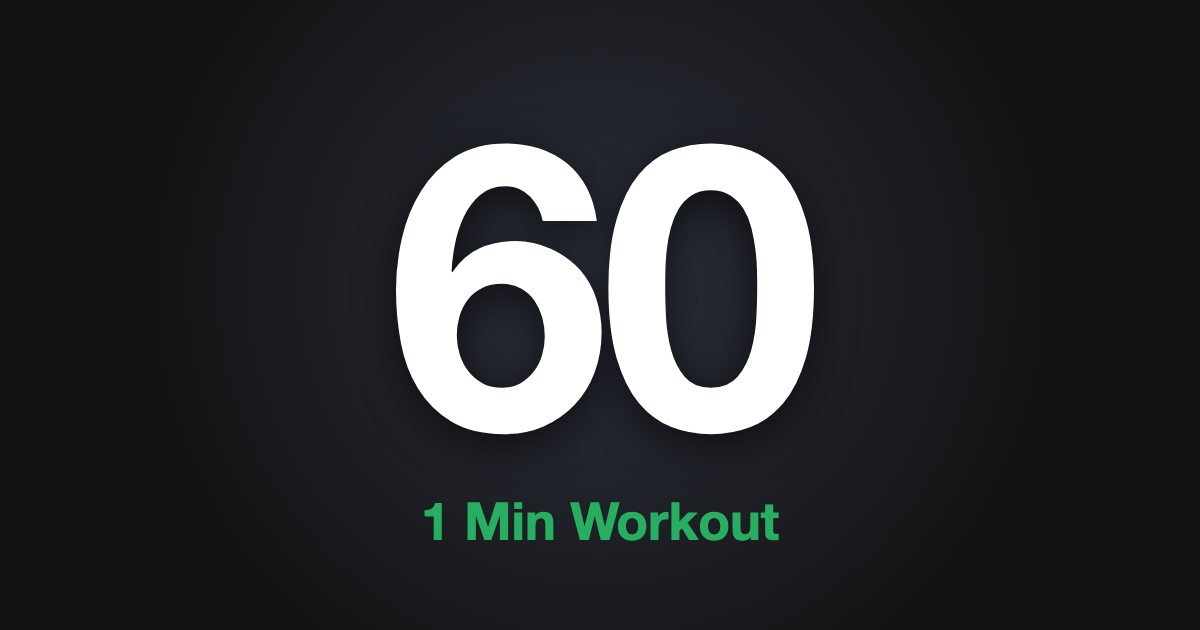
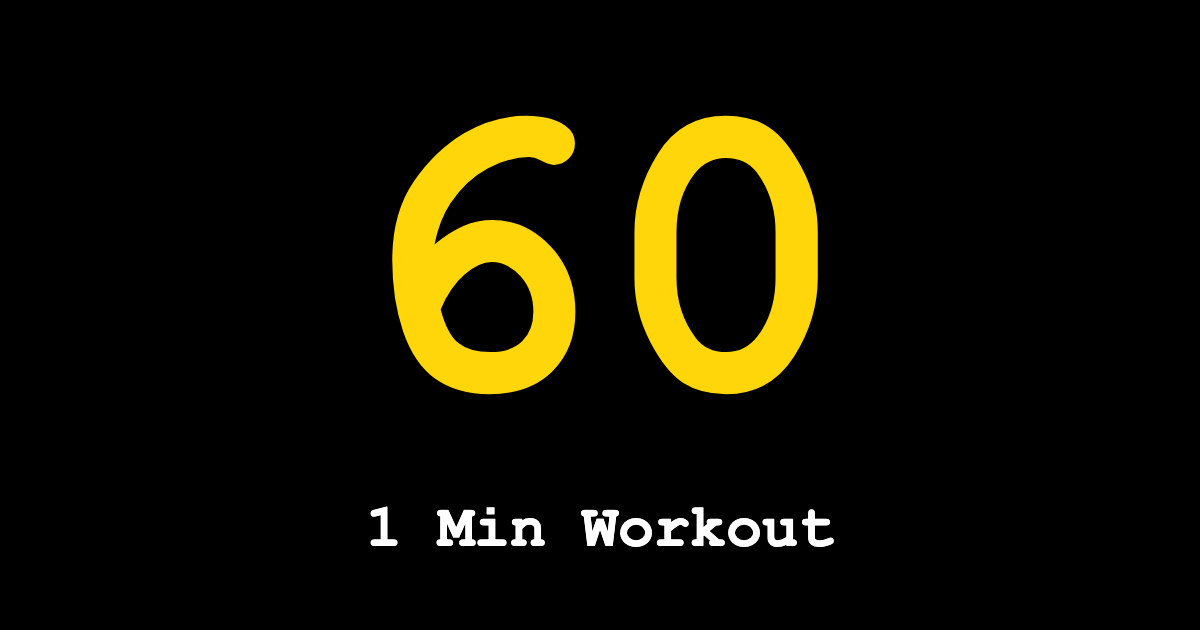
Courier New + black/white/yellow theme, reset vote during countdown

diff --git a/index.html b/index.html
@@ -18,44 +18,48 @@
 <meta name="twitter:image" content="https://chap.github.io/1-min-workout/og.png">
 <link rel="icon" type="image/png" href="apple-touch-icon.png">
 <link rel="apple-touch-icon" href="apple-touch-icon.png">
-<meta name="theme-color" content="#111111">
+<meta name="theme-color" content="#000000">
 <style>
   * { box-sizing: border-box; }
   [hidden] { display: none !important; }
-  html, body { margin: 0; height: 100%; background: #111; color: #eee;
-    font-family: -apple-system, BlinkMacSystemFont, "Segoe UI", Roboto, sans-serif; }
+  :root { --black: #000; --white: #fff; --yellow: #ffd60a; }
+  html, body { margin: 0; height: 100%; background: var(--black); color: var(--white);
+    font-family: "Courier New", Courier, monospace; }
   button { font: inherit; cursor: pointer; border: 0; border-radius: 10px;
     padding: 14px 24px; font-size: 18px; font-weight: 600; }
-  .primary { background: #2f80ed; color: #fff; }
-  .primary:hover { background: #1c6dd8; }
+  .primary { background: var(--yellow); color: var(--black); }
+  .primary:hover { background: var(--white); }
 
   #home { height: 100%; display: flex; flex-direction: column; align-items: center;
     justify-content: center; gap: 16px; padding: 16px; text-align: center; }
   #home h1 { margin: 0; font-size: 36px; }
-  #home p { margin: 0; color: #aaa; }
+  #home h1 { color: var(--yellow); }
+  #home p { margin: 0; color: var(--white); }
 
   #room { height: 100%; display: flex; flex-direction: column; }
 
   #grid { flex: 1; display: grid; gap: 6px; padding: 6px; min-height: 0; }
-  .tile { position: relative; background: #000; border-radius: 10px; overflow: hidden; min-height: 0; }
+  .tile { position: relative; background: #111; border-radius: 10px; overflow: hidden; min-height: 0; }
   .tile video { width: 100%; height: 100%; object-fit: cover; display: block; }
   .tile.self video { transform: scaleX(-1); }
   .tile .ready-btn { position: absolute; left: 50%; bottom: 14px; transform: translateX(-50%);
-    background: #444; color: #fff; }
-  .tile .ready-btn.on, .tile .ready-badge.on { background: #27ae60; }
+    background: var(--black); color: var(--white); border: 2px solid var(--white); white-space: nowrap; }
   .tile .ready-badge { position: absolute; left: 50%; bottom: 14px; transform: translateX(-50%);
-    background: #444; padding: 10px 18px; border-radius: 10px; font-weight: 600; }
+    background: var(--black); color: var(--white); border: 2px solid var(--white);
+    padding: 10px 18px; border-radius: 10px; font-weight: 700; white-space: nowrap; }
+  .tile .ready-btn.small, .tile .ready-badge.small { padding: 6px 12px; font-size: 14px; border-width: 1px; }
+  .tile .ready-btn.on, .tile .ready-badge.on { background: var(--yellow); color: var(--black); border-color: var(--yellow); }
 
   #copy { position: fixed; top: calc(env(safe-area-inset-top, 0px) + 14px); left: 50%; transform: translateX(-50%);
     z-index: 10; display: flex; align-items: center; gap: 10px; padding: 12px 22px; font-size: 18px;
-    background: rgba(0,0,0,.6); color: #fff; border-radius: 999px; backdrop-filter: blur(8px);
+    background: var(--black); color: var(--yellow); border: 2px solid var(--yellow); border-radius: 999px;
     box-shadow: 0 4px 16px rgba(0,0,0,.4); white-space: nowrap; transition: background .2s; }
-  #copy:hover { background: rgba(0,0,0,.8); }
-  #copy.copied { background: #27ae60; }
+  #copy:hover { background: var(--yellow); color: var(--black); }
+  #copy.copied { background: var(--yellow); color: var(--black); }
   #copy svg { width: 22px; height: 22px; flex: none; }
 
   #copied-banner { position: fixed; left: 50%; top: 50%; transform: translate(-50%, -50%); z-index: 20;
-    background: #27ae60; color: #fff; padding: 22px 30px; border-radius: 16px; text-align: center;
+    background: var(--yellow); color: var(--black); padding: 22px 30px; border-radius: 16px; text-align: center;
     box-shadow: 0 10px 40px rgba(0,0,0,.5); max-width: calc(100vw - 32px);
     animation: pop .25s ease-out; transition: opacity .4s; }
   #copied-banner strong { display: block; font-size: 26px; margin-bottom: 6px; }
@@ -64,8 +68,8 @@
   @keyframes pop { from { transform: translate(-50%, -50%) scale(.8); opacity: 0; } }
 
   #countdown { position: fixed; inset: 0; display: flex; align-items: center; justify-content: center;
-    pointer-events: none; font-size: min(40vw, 40vh); font-weight: 800; color: rgba(255,255,255,.9);
-    text-shadow: 0 0 30px rgba(0,0,0,.8); font-variant-numeric: tabular-nums; }
+    pointer-events: none; font-size: min(40vw, 40vh); font-weight: 700; color: var(--yellow);
+    text-shadow: 0 0 30px #000, 0 0 8px #000; font-variant-numeric: tabular-nums; }
 </style>
 </head>
 <body>
@@ -164,6 +168,9 @@ async function startRoom(roomId, justCreated = false) {
 
   const room = joinRoom({ appId: 'chap-1-min-workout' }, roomId)
   const readyAction = room.makeAction('ready')
+  const resetAction = room.makeAction('reset')
+  const resetVotes = new Set()   // peerIds (incl. self) who want to reset the countdown
+  let countdownPeers = new Set() // participants when the countdown started
 
   if (localStream) room.addStream(localStream)
 
@@ -178,6 +185,8 @@ async function startRoom(roomId, justCreated = false) {
     tiles.get(peerId)?.el.remove()
     tiles.delete(peerId)
     ready.delete(peerId)
+    resetVotes.delete(peerId)
+    countdownPeers.delete(peerId)
     update()
   }
 
@@ -200,6 +209,12 @@ async function startRoom(roomId, justCreated = false) {
     update()
   }
 
+  resetAction.onMessage = (value, { peerId }) => {
+    if (!counting) return
+    value ? resetVotes.add(peerId) : resetVotes.delete(peerId)
+    update()
+  }
+
   function makeTile(peerId, isSelf) {
     const el = document.createElement('div')
     el.className = 'tile' + (isSelf ? ' self' : '')
@@ -213,7 +228,13 @@ async function startRoom(roomId, justCreated = false) {
       badge = document.createElement('button')
       badge.className = 'ready-btn'
       badge.onclick = () => {
-        if (counting) return
+        if (counting) {
+          const vote = !resetVotes.has(selfId)
+          vote ? resetVotes.add(selfId) : resetVotes.delete(selfId)
+          resetAction.send(vote)
+          update()
+          return
+        }
         unlockSpeech()
         ready.set(selfId, !ready.get(selfId))
         readyAction.send(ready.get(selfId))
@@ -245,12 +266,27 @@ async function startRoom(roomId, justCreated = false) {
   function update() {
     layout()
     for (const [id, t] of tiles) {
-      const r = ready.get(id)
-      t.badge.classList.toggle('on', !!r)
-      t.badge.textContent = id === selfId
-        ? (r ? 'Ready ✓ (tap to undo)' : "I'm ready")
-        : (r ? 'Ready ✓' : 'Not ready')
-      t.badge.hidden = counting
+      const isSelf = id === selfId
+      t.badge.classList.toggle('small', counting)
+      if (counting) {
+        const voted = resetVotes.has(id)
+        t.badge.classList.toggle('on', voted)
+        t.badge.textContent = isSelf ? (voted ? 'Reset ✓' : 'Reset') : 'Reset ✓'
+        t.badge.hidden = !isSelf && !voted
+      } else {
+        const r = ready.get(id)
+        t.badge.classList.toggle('on', !!r)
+        t.badge.textContent = isSelf
+          ? (r ? 'Ready ✓ (tap to undo)' : "I'm ready")
+          : (r ? 'Ready ✓' : 'Not ready')
+        t.badge.hidden = false
+      }
+    }
+    if (counting && countdownPeers.size && [...countdownPeers].every(id => resetVotes.has(id))) {
+      clearInterval(timer)
+      window.speechSynthesis?.cancel()
+      finish()
+      return
     }
     const total = ready.size
     const numReady = [...ready.values()].filter(Boolean).length
@@ -260,6 +296,8 @@ async function startRoom(roomId, justCreated = false) {
 
   function startCountdown() {
     counting = true
+    resetVotes.clear()
+    countdownPeers = new Set(ready.keys())
     const cd = $('countdown')
     cd.hidden = false
     const start = performance.now()
@@ -284,6 +322,8 @@ async function startRoom(roomId, justCreated = false) {
 
   function finish() {
     counting = false
+    resetVotes.clear()
+    countdownPeers.clear()
     $('countdown').hidden = true
     for (const id of ready.keys()) ready.set(id, false)
     update()
@@ -295,10 +335,11 @@ async function startRoom(roomId, justCreated = false) {
 // ---------- Confetti ----------
 function celebrate() {
   const end = Date.now() + 3000
-  confetti({ particleCount: 200, spread: 100, origin: { y: 0.6 } })
+  const colors = ['#ffd60a', '#ffffff', '#000000']
+  confetti({ particleCount: 200, spread: 100, origin: { y: 0.6 }, colors })
   ;(function frame() {
-    confetti({ particleCount: 6, angle: 60, spread: 60, origin: { x: 0 } })
-    confetti({ particleCount: 6, angle: 120, spread: 60, origin: { x: 1 } })
+    confetti({ particleCount: 6, angle: 60, spread: 60, origin: { x: 0 }, colors })
+    confetti({ particleCount: 6, angle: 120, spread: 60, origin: { x: 1 }, colors })
     if (Date.now() < end) requestAnimationFrame(frame)
   })()
 }
